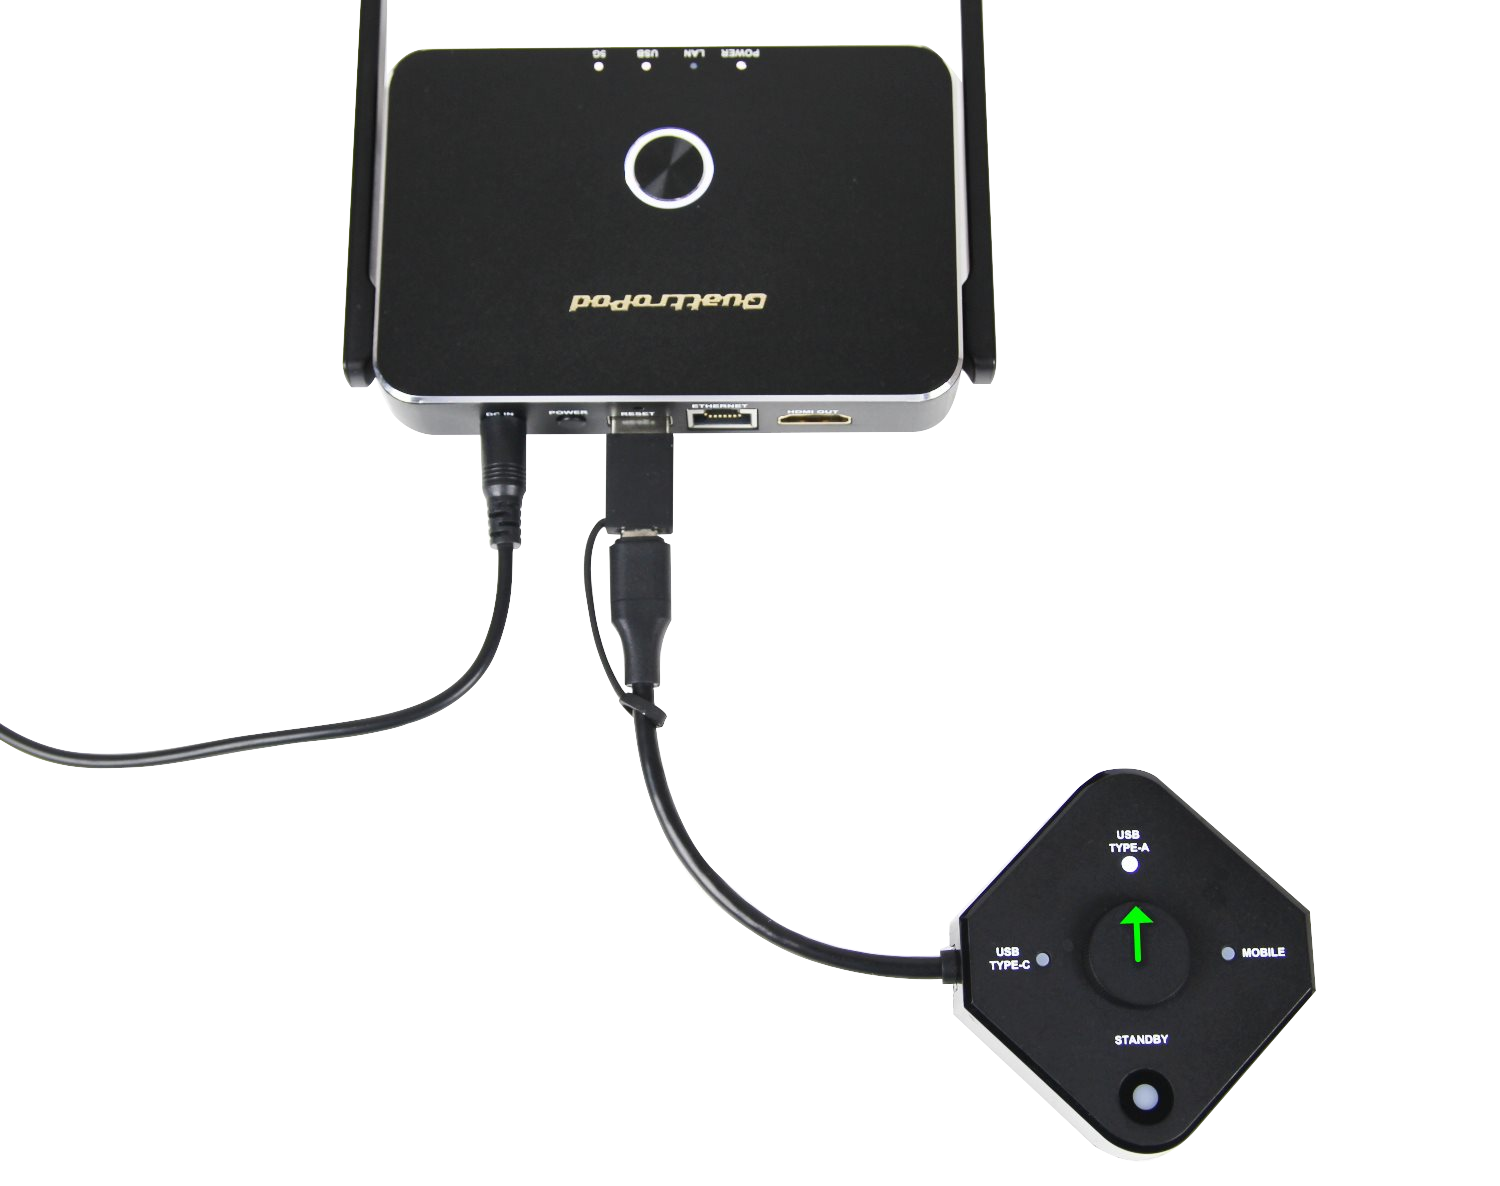
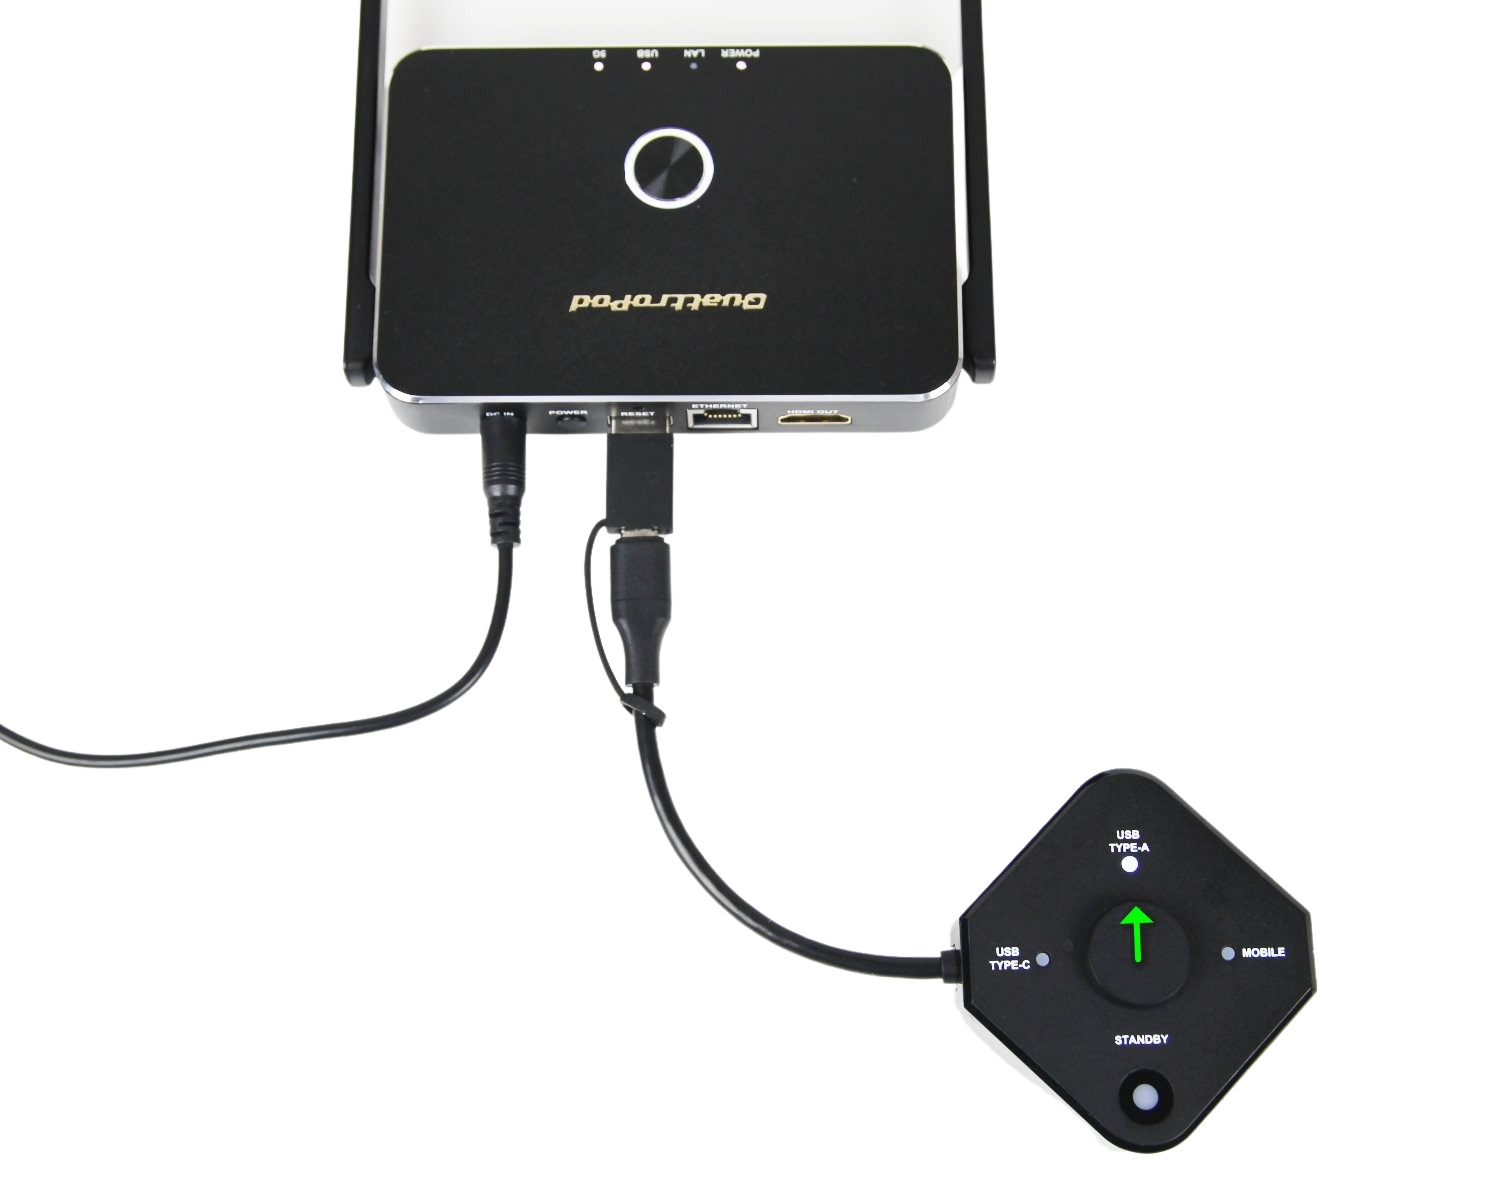
Pairing USB remove background

diff --git a/docs/usb/firmware-upgrade.md b/docs/usb/firmware-upgrade.md
@@ -17,7 +17,7 @@ Dabei benötigen Sie einen [Internetzugang](internet.md) zum Internet bzw. mit I
 
 * Schließen Sie den USB-A-Adapter an den Sender an und schalten Sie den Sender auf `Type-C` um. Schließen Sie den Sender an den USB-A-Port des Empfängers an:
 
-![Sender auf PC umschalten](/assets/img/Pairing.USBC.jpg)
+![Sender auf PC umschalten](/assets/img/Pairing.USBC.png)
 
 
 ### Sich in der Web-Oberfläche anmelden
@@ -70,7 +70,7 @@ Die Aktualisierung wird über die Web-Oberfläche in einem beliebigen Web-Browse
 
 * Schließen Sie den USB-A-Adapter an den Sender an und schalten Sie den Sender auf `Type-A` um. Schließen Sie den Sender an den USB-A-Port des Empfängers an:
 
-![Sender auf PC umschalten](/assets/img/Pairing.USBA.jpg)
+![Sender auf PC umschalten](/assets/img/Pairing.USBA.png)
 
 ### Sich in der Web-Oberfläche anmelden
 
